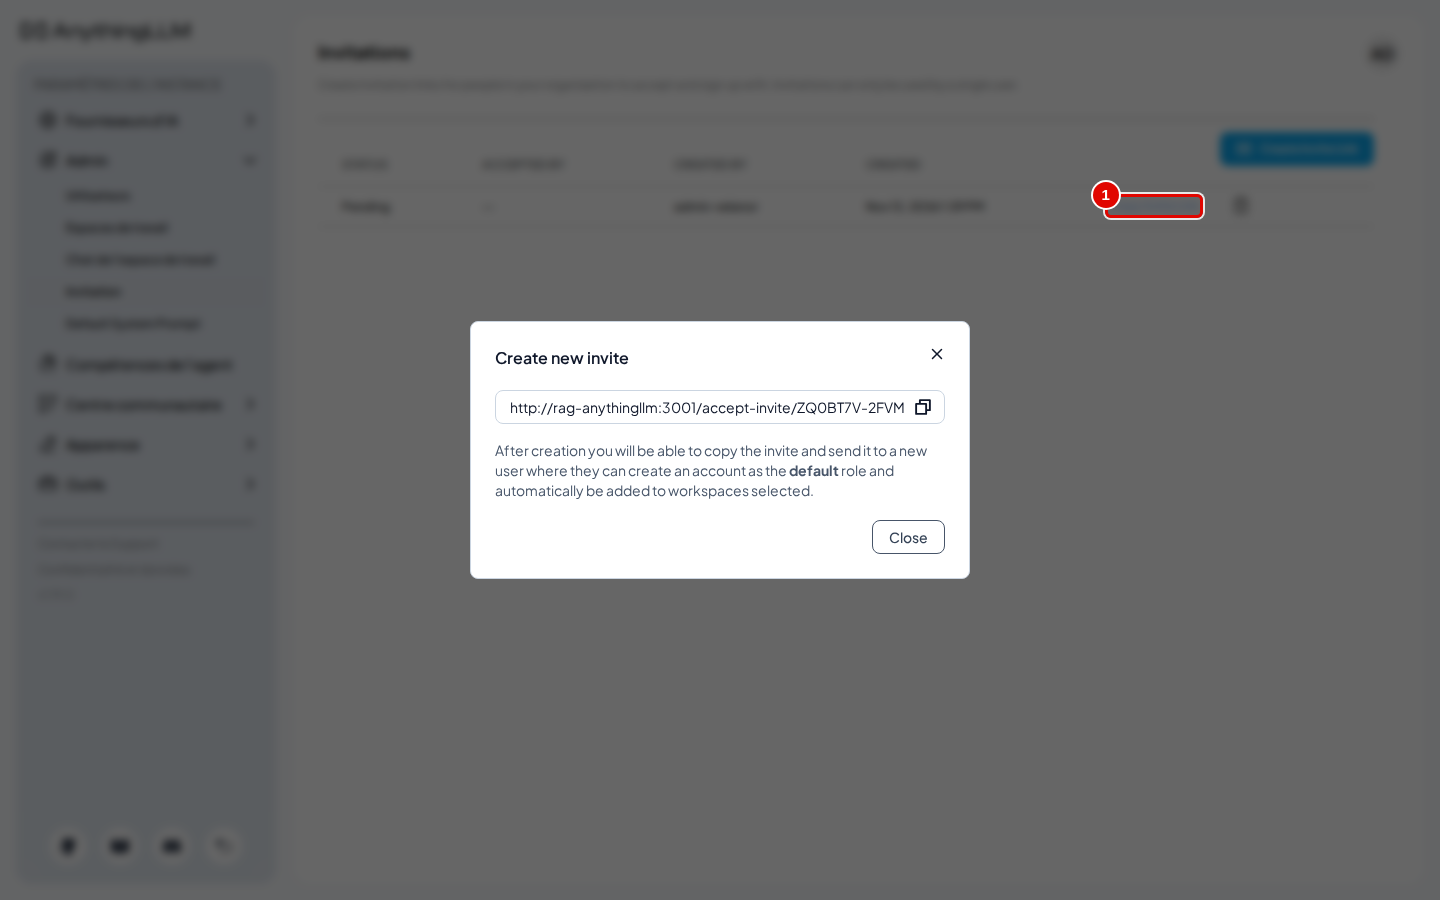
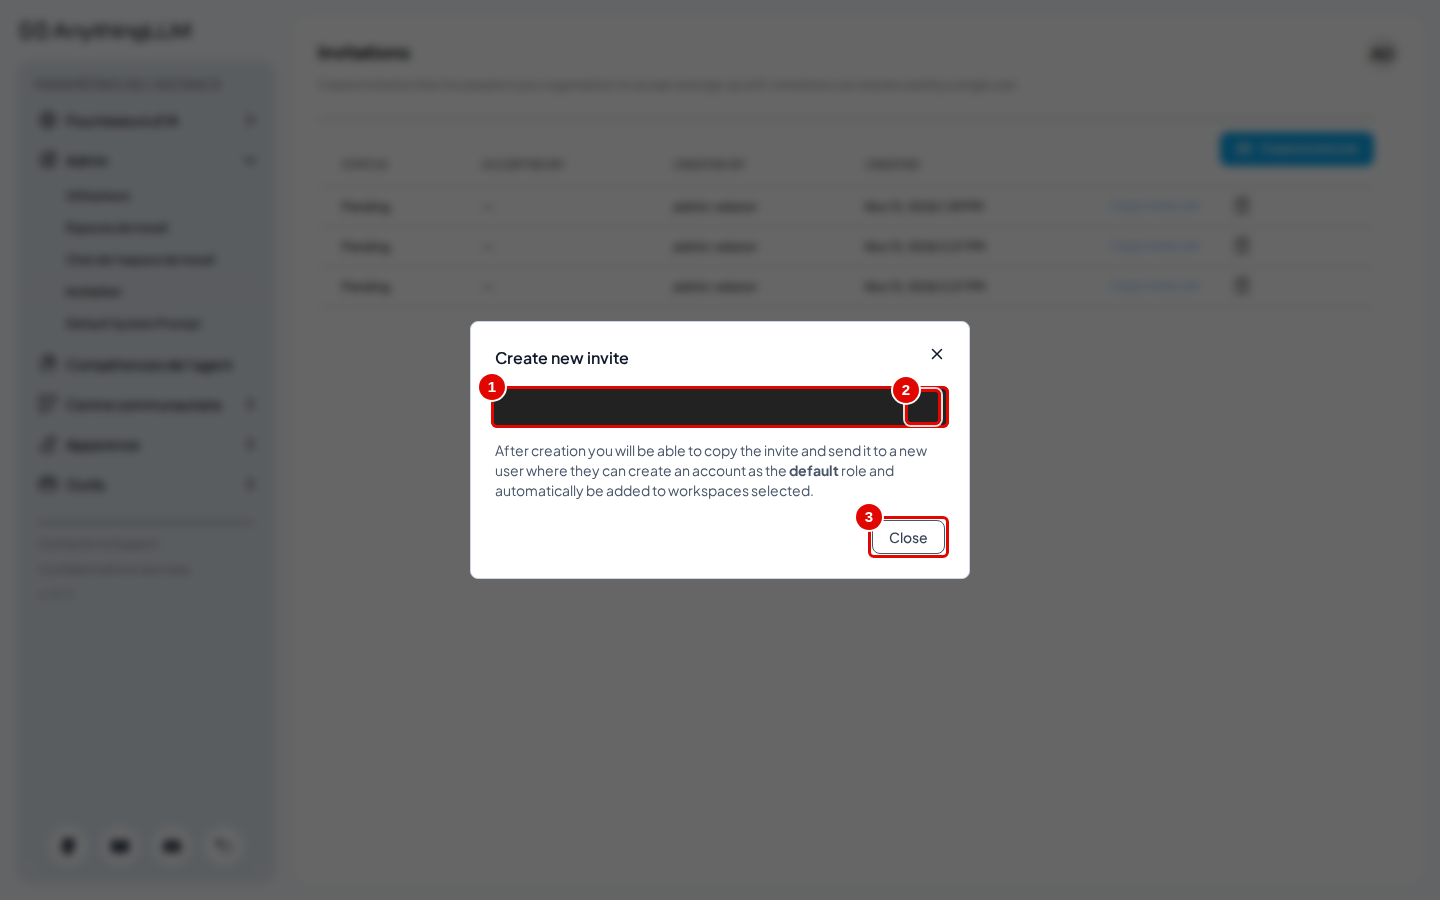
AnythingLLM : corrections de la douzième relecture novice (invitation masquée, documentation de l'API)

Changed region(s): [[0.3125, 0.4044, 0.6562, 0.4978], [0.75, 0.1867, 0.8438, 0.2489], [0.5938, 0.56, 0.6562, 0.6222]]

diff --git a/outils/anythingllm/captures/reprises.py b/outils/anythingllm/captures/reprises.py
@@ -203,9 +203,29 @@ def suggestion_editeur(s):
                                              (champ, "Message"), (p.get_by_role("button", name="Enregistrer les messages"), "Enregistrer les messages")])
 
 
+def invitation2(s):
+    p = s.page; s.chapitre = "13-comptes-et-widget"
+    s.aller("/settings/invites"); p.wait_for_timeout(1500)
+    s.bouton("Create Invite Link").first.click(); p.wait_for_timeout(1000)
+    p.get_by_role("button", name="Create Invite").last.click(); p.wait_for_timeout(2500)
+    s.note("fenêtre invitation : " + p.inner_text("body")[-700:].replace("\n", " | "))
+    fen = p.get_by_text("Create new invite").last.locator("xpath=ancestor::*[.//button][1]")
+    lien = p.locator("input:visible").last
+    copie = lien.locator("xpath=following::button[1]")
+    s.cap_souple("07-invitation-creee", [(lien, "lien d invitation (masqué)"), (copie, "copier le lien"), (p.get_by_role("button", name="Close").last, "Close")], masques=[lien])
+
+
+def swagger2(s):
+    p = s.page; s.chapitre = "12-administrer"
+    s.aller("/api/docs"); p.wait_for_timeout(3000)
+    p.evaluate("() => { window.scrollTo(0, 0); document.querySelectorAll('*').forEach(e => { if (e.scrollTop) e.scrollTop = 0; }); }")
+    p.wait_for_timeout(500)
+    s.cap_souple("14-documentation-api", [(p.get_by_role("button", name=re.compile("Authorize")).first, "Authorize")])
+
+
 if __name__ == "__main__":
     s = Scenario("reprises")
     try:
-        etapes([suggestion_editeur, widget_espace, envoi_vierge, github_form, agents, admin, experimental, widget, citation, ocr, envoi, croix_seule, citation2, ocr2, widget_fichier], s)
+        etapes([invitation2, swagger2, suggestion_editeur, widget_espace, envoi_vierge, github_form, agents, admin, experimental, widget, citation, ocr, envoi, croix_seule, citation2, ocr2, widget_fichier], s)
     finally:
         s.fermer()

diff --git a/outils/anythingllm/captures/ui.py b/outils/anythingllm/captures/ui.py
@@ -8,7 +8,7 @@
 - les secrets (clé du service central, mots de passe) sont masqués avant capture.
 """
 import json, os, re, sys, time
-CLE_RE = re.compile(r"\b[A-Z0-9]{7}-[A-Z0-9]{7}-[A-Z0-9]{7}-[A-Z0-9]{7}\b|sk-[A-Za-z0-9_-]{8,}|brx-[A-Za-z0-9_-]{8,}")
+CLE_RE = re.compile(r"\b[A-Z0-9]{7}-[A-Z0-9]{7}-[A-Z0-9]{7}-[A-Z0-9]{7}\b|sk-[A-Za-z0-9_-]{8,}|brx-[A-Za-z0-9_-]{8,}|accept-invite/[A-Za-z0-9-]+")
 from pathlib import Path
 
 from playwright.sync_api import sync_playwright, expect  # noqa: F401

diff --git a/docs/anythingllm/manuel/13-comptes-equipe-et-widget.md b/docs/anythingllm/manuel/13-comptes-equipe-et-widget.md
@@ -113,17 +113,20 @@ Cocher éventuellement les espaces à ouvrir d'office (pastille 1), puis « Crea
 | 1 | « Auto-add invitee to workspaces » | espaces auxquels la personne invitée sera ajoutée |
 | 2 | « Create Invite » | crée le lien |
 
-*Résultat* : l'invitation apparaît dans la liste.
+*Résultat* : une fenêtre « Create new invite » s'ouvre avec le lien d'invitation (étape suivante) ; l'invitation est aussi ajoutée à la liste, à l'état « Pending ».
 
 **Étape 7. Copier le lien**
-*Où* : « Invitations ».
+*Où* : fenêtre « Create new invite », ouverte par l'étape 6.
+Cliquer sur l'icône de copie (pastille 2) à droite du lien, puis sur « Close » (pastille 3). Plus tard, le lien se recopie depuis la liste « Invitations », lien « Copy Invite Link » de la ligne.
 
 ![Invitation créée](../img/13-comptes-et-widget/07-invitation-creee.png)
-*Écran : « Invitations », une invitation en attente.*
+*Écran : fenêtre « Create new invite », lien créé (masqué).*
 
 | N° | Élément | Rôle |
 |---|---|---|
-| 1 | « Copy Invite Link » | copie le lien à envoyer |
+| 1 | lien d'invitation | adresse à envoyer à la personne invitée (masquée sur la capture : elle vaut un droit d'inscription) |
+| 2 | icône de copie | copie le lien dans le presse-papiers |
+| 3 | « Close » | ferme la fenêtre |
 
 *Résultat* : la personne qui ouvre le lien choisit son nom et son mot de passe ; chaque lien ne sert qu'une fois. Le lien commence par l'adresse de l'instance : depuis un autre poste, elle n'est joignable que si l'instance a été ouverte au réseau, ce que cette installation ne fait pas.
 

diff --git a/docs/anythingllm/manuel/12-personnaliser-et-administrer.md b/docs/anythingllm/manuel/12-personnaliser-et-administrer.md
@@ -218,9 +218,8 @@ Cliquer sur « Créer une clé API » (pastille 1). Sur cette capture et la suiv
 | N° | Élément | Rôle |
 |---|---|---|
 | 1 | « Authorize » | saisit la clé d'API pour essayer les routes depuis la page |
-| 2 | « Workspaces » | routes des espaces (créer, lister, poser une question…) |
 
-*Résultat* : chaque route peut être essayée depuis la page. L'annexe A3 donne des exemples exécutés.
+*Résultat* : sous « Authorize », les routes sont regroupées par thème (« Authentication », « Admin », puis plus bas « Workspaces »…) ; chaque route peut être essayée depuis la page. L'annexe A3 donne des exemples exécutés.
 
 ## Bon à savoir
 
